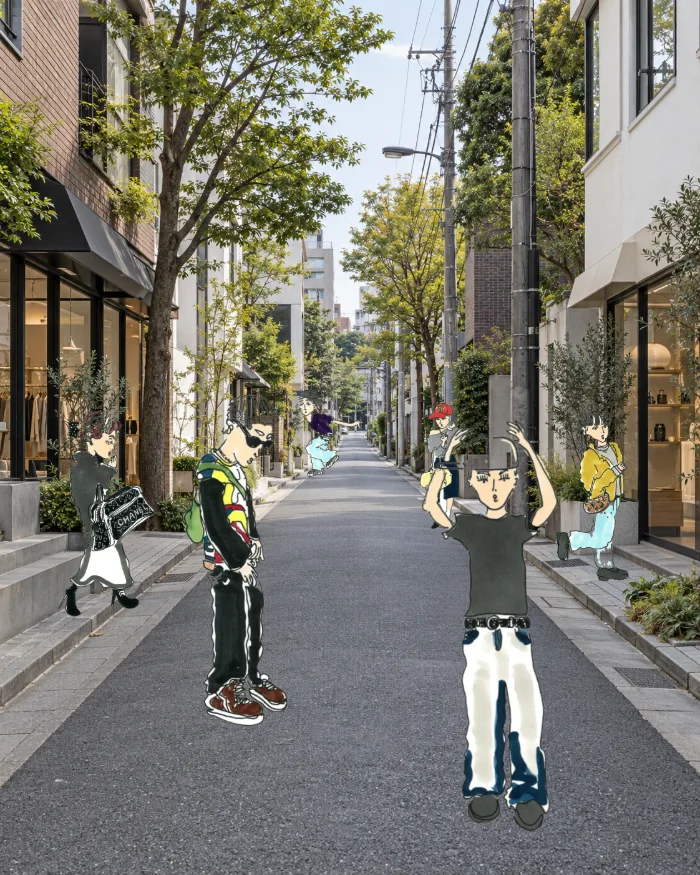
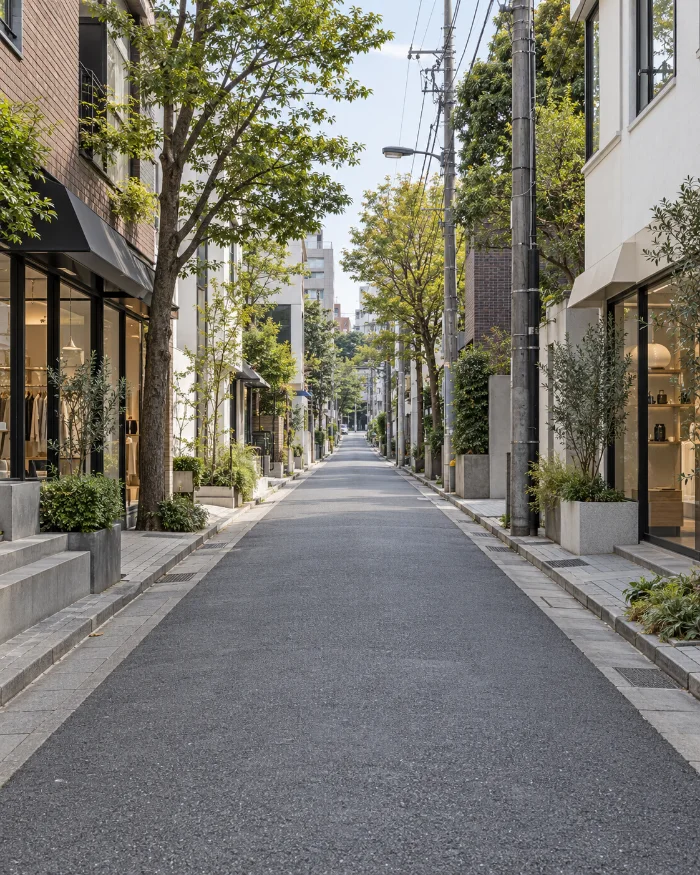
街の人を画面に置き直し、結婚式の絵はWORKSへ、スタンプの枠を作り直す
- 街の人：写真に焼き込むと切り取られて見えなくなる（スマホは左右、PCは上下が切れる）。
  画面に対して置き直し、下にいるほど大きく＝遠近を付けた。6人とも全身が入り、
  真ん中の文にも掛からないことを 390×844／360×640／1440×900 で確認
  上下を紙に溶かす覆いの外に出したので、足元も切れない
- 結婚式の素材8点は皿から外し、WORKS に「ほかの作品」として一覧に。
  はじめは4点、「もっと見る」で8点に開く
- LINEスタンプの枠を作り直し。題・説明・SET/SHOP・ボタンの組と、
  スタンプ9枚を並べた台紙（破線の見出し、1枚ずつ傾ける）の2段構え

diff --git a/index.html b/index.html
@@ -112,6 +112,11 @@ html.ready .nav{opacity:1}
 .street i{position:fixed;inset:0;background-position:center;background-size:cover;
   background-repeat:no-repeat;opacity:0;transition:opacity .9s ease}
 .street i.on{opacity:var(--street-op)}
+/* 街に立つ人。写真に焼き込むと切り取られて見えなくなるので、画面に対して置く。
+   下にいるほど大きく、上にいるほど小さい＝遠近。真ん中の文には重ねない */
+.persons{position:absolute;inset:0;z-index:1;pointer-events:none}
+.pers{position:fixed;width:auto;pointer-events:none;
+  filter:drop-shadow(0 .6vh .7vh rgba(20,17,15,.2))}
 @media (prefers-reduced-motion:reduce){.street i{transition:none}}
 /* 切替UI（確認用。本番では削除） */
 /* ===== ② 人が出てくる区間 ===== */
@@ -344,6 +349,7 @@ html.ready .nav{opacity:1}
 
 <section class="garden" id="garden" aria-hidden="true">
   <div class="street"><i data-street="street-02-plain"></i></div>
+  <div class="persons" aria-hidden="true"><img class="pers" style="left:3%;bottom:44%;height:7vh" src="naoto-works/figures-city/city-03@280w.webp" srcset="naoto-works/figures-city/city-03@280w.webp 280w, naoto-works/figures-city/city-03@560w.webp 560w" sizes="30vh" alt="" loading="lazy" decoding="async"><img class="pers" style="left:85%;bottom:42%;height:8.5vh" src="naoto-works/figures-city/city-02@280w.webp" srcset="naoto-works/figures-city/city-02@280w.webp 280w, naoto-works/figures-city/city-02@560w.webp 560w" sizes="30vh" alt="" loading="lazy" decoding="async"><img class="pers" style="left:70%;bottom:29%;height:13vh" src="naoto-works/figures-city/city-06@280w.webp" srcset="naoto-works/figures-city/city-06@280w.webp 280w, naoto-works/figures-city/city-06@560w.webp 560w" sizes="30vh" alt="" loading="lazy" decoding="async"><img class="pers" style="left:13%;bottom:26%;height:15vh" src="naoto-works/figures-city/city-05@280w.webp" srcset="naoto-works/figures-city/city-05@280w.webp 280w, naoto-works/figures-city/city-05@560w.webp 560w" sizes="30vh" alt="" loading="lazy" decoding="async"><img class="pers" style="left:31%;bottom:12%;height:24vh" src="naoto-works/figures-city/city-01@280w.webp" srcset="naoto-works/figures-city/city-01@280w.webp 280w, naoto-works/figures-city/city-01@560w.webp 560w" sizes="30vh" alt="" loading="lazy" decoding="async"><img class="pers" style="left:59%;bottom:9%;height:28vh" src="naoto-works/figures-city/city-04@280w.webp" srcset="naoto-works/figures-city/city-04@280w.webp 280w, naoto-works/figures-city/city-04@560w.webp 560w" sizes="30vh" alt="" loading="lazy" decoding="async"></div>
     <p class="say say--en">PEOPLE / FASHION / CITY</p>
 
   
@@ -385,7 +391,7 @@ html.ready .nav{opacity:1}
 <section class="gate">
   <h2>人物、服、街の空気。</h2>
   <p class="en">PEOPLE / FASHION / CITY</p>
-  <div class="lane-wrap"><div class="lane" id="lane"><figure class="dish"><span class="art art--img"><img src="naoto-works/works/trio-blue-cut@400w.webp" srcset="naoto-works/works/trio-blue-cut@400w.webp 400w, naoto-works/works/trio-blue-cut@600w.webp 600w" sizes="(max-width:760px) 34vw, 14vw" alt="3人組・青ジャケットのスケッチ" loading="lazy" decoding="async"></span><i class="plate"></i></figure><figure class="dish"><span class="art art--img"><img src="naoto-works/works/happy-wedding-cut@400w.webp" srcset="naoto-works/works/happy-wedding-cut@400w.webp 400w, naoto-works/works/happy-wedding-cut@600w.webp 600w" sizes="(max-width:760px) 34vw, 14vw" alt="HAPPY WEDDING のスケッチ" loading="lazy" decoding="async"></span><i class="plate"></i></figure><figure class="dish"><span class="art art--img"><img src="naoto-works/works/grid-people-a-cut@400w.webp" srcset="naoto-works/works/grid-people-a-cut@400w.webp 400w, naoto-works/works/grid-people-a-cut@600w.webp 600w" sizes="(max-width:760px) 42vw, 19vw" alt="人物を並べたスケッチ" loading="lazy" decoding="async"></span><i class="plate"></i></figure><figure class="dish"><span class="art art--img art--rect"><img src="naoto-works/works/green-down-wall@400w.webp" srcset="naoto-works/works/green-down-wall@400w.webp 400w, naoto-works/works/green-down-wall@600w.webp 600w" sizes="(max-width:760px) 34vw, 14vw" alt="緑のダウンとレンガの壁のスケッチ" loading="lazy" decoding="async"></span><i class="plate"></i></figure><figure class="dish"><span class="art art--img"><img src="naoto-works/works/trio-yellow-cut@400w.webp" srcset="naoto-works/works/trio-yellow-cut@400w.webp 400w, naoto-works/works/trio-yellow-cut@600w.webp 600w" sizes="(max-width:760px) 34vw, 14vw" alt="3人歩き・黄のスケッチ" loading="lazy" decoding="async"></span><i class="plate"></i></figure><figure class="dish"><span class="art art--img"><img src="naoto-works/works/grid-people-b-cut@400w.webp" srcset="naoto-works/works/grid-people-b-cut@400w.webp 400w, naoto-works/works/grid-people-b-cut@600w.webp 600w" sizes="(max-width:760px) 42vw, 19vw" alt="人物を並べたスケッチ その2" loading="lazy" decoding="async"></span><i class="plate"></i></figure><figure class="dish"><span class="art art--img art--rect"><img src="naoto-works/works/plate-8614@400w.webp" srcset="naoto-works/works/plate-8614@400w.webp 400w, naoto-works/works/plate-8614@600w.webp 600w" sizes="(max-width:760px) 34vw, 14vw" alt="新郎新婦のスケッチ" loading="lazy" decoding="async"></span><i class="plate"></i></figure><figure class="dish"><span class="art art--img art--rect"><img src="naoto-works/works/plate-9468@400w.webp" srcset="naoto-works/works/plate-9468@400w.webp 400w, naoto-works/works/plate-9468@600w.webp 600w" sizes="(max-width:760px) 34vw, 14vw" alt="4人のスケッチ" loading="lazy" decoding="async"></span><i class="plate"></i></figure><figure class="dish"><span class="art art--img art--rect"><img src="naoto-works/works/plate-8620@400w.webp" srcset="naoto-works/works/plate-8620@400w.webp 400w, naoto-works/works/plate-8620@600w.webp 600w" sizes="(max-width:760px) 34vw, 14vw" alt="向かい合う二人のスケッチ" loading="lazy" decoding="async"></span><i class="plate"></i></figure><figure class="dish"><span class="art art--img art--rect"><img src="naoto-works/works/plate-8074@400w.webp" srcset="naoto-works/works/plate-8074@400w.webp 400w, naoto-works/works/plate-8074@600w.webp 600w" sizes="(max-width:760px) 34vw, 14vw" alt="スマホを見る二人のスケッチ" loading="lazy" decoding="async"></span><i class="plate"></i></figure><figure class="dish"><span class="art art--img art--rect"><img src="naoto-works/works/plate-8121@400w.webp" srcset="naoto-works/works/plate-8121@400w.webp 400w, naoto-works/works/plate-8121@600w.webp 600w" sizes="(max-width:760px) 34vw, 14vw" alt="街のスケッチ" loading="lazy" decoding="async"></span><i class="plate"></i></figure><figure class="dish"><span class="art art--img art--rect"><img src="naoto-works/works/plate-8617@400w.webp" srcset="naoto-works/works/plate-8617@400w.webp 400w, naoto-works/works/plate-8617@600w.webp 600w" sizes="(max-width:760px) 34vw, 14vw" alt="街のスケッチ" loading="lazy" decoding="async"></span><i class="plate"></i></figure><figure class="dish"><span class="art art--img art--rect"><img src="naoto-works/works/plate-8627@400w.webp" srcset="naoto-works/works/plate-8627@400w.webp 400w, naoto-works/works/plate-8627@600w.webp 600w" sizes="(max-width:760px) 34vw, 14vw" alt="街のスケッチ" loading="lazy" decoding="async"></span><i class="plate"></i></figure><figure class="dish"><span class="art art--img art--rect"><img src="naoto-works/works/plate-8076@400w.webp" srcset="naoto-works/works/plate-8076@400w.webp 400w, naoto-works/works/plate-8076@600w.webp 600w" sizes="(max-width:760px) 34vw, 14vw" alt="手をつなぐ親子のスケッチ" loading="lazy" decoding="async"></span><i class="plate"></i></figure><figure class="dish" aria-hidden="true"><span class="art art--img"><img src="naoto-works/works/trio-blue-cut@400w.webp" srcset="naoto-works/works/trio-blue-cut@400w.webp 400w, naoto-works/works/trio-blue-cut@600w.webp 600w" sizes="(max-width:760px) 34vw, 14vw" alt="" loading="lazy" decoding="async"></span><i class="plate"></i></figure><figure class="dish" aria-hidden="true"><span class="art art--img"><img src="naoto-works/works/happy-wedding-cut@400w.webp" srcset="naoto-works/works/happy-wedding-cut@400w.webp 400w, naoto-works/works/happy-wedding-cut@600w.webp 600w" sizes="(max-width:760px) 34vw, 14vw" alt="" loading="lazy" decoding="async"></span><i class="plate"></i></figure><figure class="dish"><span class="art art--img"><img src="naoto-works/works/grid-people-a-cut@400w.webp" srcset="naoto-works/works/grid-people-a-cut@400w.webp 400w, naoto-works/works/grid-people-a-cut@600w.webp 600w" sizes="(max-width:760px) 42vw, 19vw" alt="人物を並べたスケッチ" loading="lazy" decoding="async"></span><i class="plate"></i></figure><figure class="dish" aria-hidden="true"><span class="art art--img art--rect"><img src="naoto-works/works/green-down-wall@400w.webp" srcset="naoto-works/works/green-down-wall@400w.webp 400w, naoto-works/works/green-down-wall@600w.webp 600w" sizes="(max-width:760px) 34vw, 14vw" alt="" loading="lazy" decoding="async"></span><i class="plate"></i></figure><figure class="dish" aria-hidden="true"><span class="art art--img"><img src="naoto-works/works/trio-yellow-cut@400w.webp" srcset="naoto-works/works/trio-yellow-cut@400w.webp 400w, naoto-works/works/trio-yellow-cut@600w.webp 600w" sizes="(max-width:760px) 34vw, 14vw" alt="" loading="lazy" decoding="async"></span><i class="plate"></i></figure><figure class="dish"><span class="art art--img"><img src="naoto-works/works/grid-people-b-cut@400w.webp" srcset="naoto-works/works/grid-people-b-cut@400w.webp 400w, naoto-works/works/grid-people-b-cut@600w.webp 600w" sizes="(max-width:760px) 42vw, 19vw" alt="人物を並べたスケッチ その2" loading="lazy" decoding="async"></span><i class="plate"></i></figure><figure class="dish" aria-hidden="true"><span class="art art--img art--rect"><img src="naoto-works/works/plate-8614@400w.webp" srcset="naoto-works/works/plate-8614@400w.webp 400w, naoto-works/works/plate-8614@600w.webp 600w" sizes="(max-width:760px) 34vw, 14vw" alt="" loading="lazy" decoding="async"></span><i class="plate"></i></figure><figure class="dish" aria-hidden="true"><span class="art art--img art--rect"><img src="naoto-works/works/plate-9468@400w.webp" srcset="naoto-works/works/plate-9468@400w.webp 400w, naoto-works/works/plate-9468@600w.webp 600w" sizes="(max-width:760px) 34vw, 14vw" alt="" loading="lazy" decoding="async"></span><i class="plate"></i></figure><figure class="dish" aria-hidden="true"><span class="art art--img art--rect"><img src="naoto-works/works/plate-8620@400w.webp" srcset="naoto-works/works/plate-8620@400w.webp 400w, naoto-works/works/plate-8620@600w.webp 600w" sizes="(max-width:760px) 34vw, 14vw" alt="" loading="lazy" decoding="async"></span><i class="plate"></i></figure><figure class="dish" aria-hidden="true"><span class="art art--img art--rect"><img src="naoto-works/works/plate-8074@400w.webp" srcset="naoto-works/works/plate-8074@400w.webp 400w, naoto-works/works/plate-8074@600w.webp 600w" sizes="(max-width:760px) 34vw, 14vw" alt="" loading="lazy" decoding="async"></span><i class="plate"></i></figure><figure class="dish" aria-hidden="true"><span class="art art--img art--rect"><img src="naoto-works/works/plate-8121@400w.webp" srcset="naoto-works/works/plate-8121@400w.webp 400w, naoto-works/works/plate-8121@600w.webp 600w" sizes="(max-width:760px) 34vw, 14vw" alt="" loading="lazy" decoding="async"></span><i class="plate"></i></figure><figure class="dish" aria-hidden="true"><span class="art art--img art--rect"><img src="naoto-works/works/plate-8617@400w.webp" srcset="naoto-works/works/plate-8617@400w.webp 400w, naoto-works/works/plate-8617@600w.webp 600w" sizes="(max-width:760px) 34vw, 14vw" alt="" loading="lazy" decoding="async"></span><i class="plate"></i></figure><figure class="dish" aria-hidden="true"><span class="art art--img art--rect"><img src="naoto-works/works/plate-8627@400w.webp" srcset="naoto-works/works/plate-8627@400w.webp 400w, naoto-works/works/plate-8627@600w.webp 600w" sizes="(max-width:760px) 34vw, 14vw" alt="" loading="lazy" decoding="async"></span><i class="plate"></i></figure><figure class="dish" aria-hidden="true"><span class="art art--img art--rect"><img src="naoto-works/works/plate-8076@400w.webp" srcset="naoto-works/works/plate-8076@400w.webp 400w, naoto-works/works/plate-8076@600w.webp 600w" sizes="(max-width:760px) 34vw, 14vw" alt="" loading="lazy" decoding="async"></span><i class="plate"></i></figure></div></div>
+  <div class="lane-wrap"><div class="lane" id="lane"><figure class="dish"><span class="art art--img"><img src="naoto-works/works/trio-blue-cut@400w.webp" srcset="naoto-works/works/trio-blue-cut@400w.webp 400w, naoto-works/works/trio-blue-cut@600w.webp 600w" sizes="(max-width:760px) 34vw, 14vw" alt="3人組・青ジャケットのスケッチ" loading="lazy" decoding="async"></span><i class="plate"></i></figure><figure class="dish"><span class="art art--img"><img src="naoto-works/works/happy-wedding-cut@400w.webp" srcset="naoto-works/works/happy-wedding-cut@400w.webp 400w, naoto-works/works/happy-wedding-cut@600w.webp 600w" sizes="(max-width:760px) 34vw, 14vw" alt="HAPPY WEDDING のスケッチ" loading="lazy" decoding="async"></span><i class="plate"></i></figure><figure class="dish"><span class="art art--img"><img src="naoto-works/works/grid-people-a-cut@400w.webp" srcset="naoto-works/works/grid-people-a-cut@400w.webp 400w, naoto-works/works/grid-people-a-cut@600w.webp 600w" sizes="(max-width:760px) 42vw, 19vw" alt="人物を並べたスケッチ" loading="lazy" decoding="async"></span><i class="plate"></i></figure><figure class="dish"><span class="art art--img art--rect"><img src="naoto-works/works/green-down-wall@400w.webp" srcset="naoto-works/works/green-down-wall@400w.webp 400w, naoto-works/works/green-down-wall@600w.webp 600w" sizes="(max-width:760px) 34vw, 14vw" alt="緑のダウンとレンガの壁のスケッチ" loading="lazy" decoding="async"></span><i class="plate"></i></figure><figure class="dish"><span class="art art--img"><img src="naoto-works/works/trio-yellow-cut@400w.webp" srcset="naoto-works/works/trio-yellow-cut@400w.webp 400w, naoto-works/works/trio-yellow-cut@600w.webp 600w" sizes="(max-width:760px) 34vw, 14vw" alt="3人歩き・黄のスケッチ" loading="lazy" decoding="async"></span><i class="plate"></i></figure><figure class="dish"><span class="art art--img"><img src="naoto-works/works/grid-people-b-cut@400w.webp" srcset="naoto-works/works/grid-people-b-cut@400w.webp 400w, naoto-works/works/grid-people-b-cut@600w.webp 600w" sizes="(max-width:760px) 42vw, 19vw" alt="人物を並べたスケッチ その2" loading="lazy" decoding="async"></span><i class="plate"></i></figure><figure class="dish" aria-hidden="true"><span class="art art--img"><img src="naoto-works/works/trio-blue-cut@400w.webp" srcset="naoto-works/works/trio-blue-cut@400w.webp 400w, naoto-works/works/trio-blue-cut@600w.webp 600w" sizes="(max-width:760px) 34vw, 14vw" alt="" loading="lazy" decoding="async"></span><i class="plate"></i></figure><figure class="dish" aria-hidden="true"><span class="art art--img"><img src="naoto-works/works/happy-wedding-cut@400w.webp" srcset="naoto-works/works/happy-wedding-cut@400w.webp 400w, naoto-works/works/happy-wedding-cut@600w.webp 600w" sizes="(max-width:760px) 34vw, 14vw" alt="" loading="lazy" decoding="async"></span><i class="plate"></i></figure><figure class="dish"><span class="art art--img"><img src="naoto-works/works/grid-people-a-cut@400w.webp" srcset="naoto-works/works/grid-people-a-cut@400w.webp 400w, naoto-works/works/grid-people-a-cut@600w.webp 600w" sizes="(max-width:760px) 42vw, 19vw" alt="人物を並べたスケッチ" loading="lazy" decoding="async"></span><i class="plate"></i></figure><figure class="dish" aria-hidden="true"><span class="art art--img art--rect"><img src="naoto-works/works/green-down-wall@400w.webp" srcset="naoto-works/works/green-down-wall@400w.webp 400w, naoto-works/works/green-down-wall@600w.webp 600w" sizes="(max-width:760px) 34vw, 14vw" alt="" loading="lazy" decoding="async"></span><i class="plate"></i></figure><figure class="dish" aria-hidden="true"><span class="art art--img"><img src="naoto-works/works/trio-yellow-cut@400w.webp" srcset="naoto-works/works/trio-yellow-cut@400w.webp 400w, naoto-works/works/trio-yellow-cut@600w.webp 600w" sizes="(max-width:760px) 34vw, 14vw" alt="" loading="lazy" decoding="async"></span><i class="plate"></i></figure><figure class="dish"><span class="art art--img"><img src="naoto-works/works/grid-people-b-cut@400w.webp" srcset="naoto-works/works/grid-people-b-cut@400w.webp 400w, naoto-works/works/grid-people-b-cut@600w.webp 600w" sizes="(max-width:760px) 42vw, 19vw" alt="人物を並べたスケッチ その2" loading="lazy" decoding="async"></span><i class="plate"></i></figure></div></div>
   <div class="rail"></div>
   <div class="ticker" aria-label="OSUSHI JAPAN ART / 兵庫県加古郡・オンライン対応 / 雑誌・広告・アパレル・イベント">
     <div class="ticker__in" id="ticker"><span class="ticker__seg"><b>OSUSHI JAPAN ART</b><i aria-hidden="true"></i><span>PEOPLE / FASHION / CITY</span><i aria-hidden="true"></i><em>兵庫県加古郡・オンライン対応</em><i aria-hidden="true"></i><span>EDITORIAL / AD / APPAREL / EVENT</span><i aria-hidden="true"></i><em>雑誌・広告・アパレル・イベント</em><i aria-hidden="true"></i></span><span class="ticker__seg"><b>OSUSHI JAPAN ART</b><i aria-hidden="true"></i><span>PEOPLE / FASHION / CITY</span><i aria-hidden="true"></i><em>兵庫県加古郡・オンライン対応</em><i aria-hidden="true"></i><span>EDITORIAL / AD / APPAREL / EVENT</span><i aria-hidden="true"></i><em>雑誌・広告・アパレル・イベント</em><i aria-hidden="true"></i></span><span class="ticker__seg"><b>OSUSHI JAPAN ART</b><i aria-hidden="true"></i><span>PEOPLE / FASHION / CITY</span><i aria-hidden="true"></i><em>兵庫県加古郡・オンライン対応</em><i aria-hidden="true"></i><span>EDITORIAL / AD / APPAREL / EVENT</span><i aria-hidden="true"></i><em>雑誌・広告・アパレル・イベント</em><i aria-hidden="true"></i></span><span class="ticker__seg"><b>OSUSHI JAPAN ART</b><i aria-hidden="true"></i><span>PEOPLE / FASHION / CITY</span><i aria-hidden="true"></i><em>兵庫県加古郡・オンライン対応</em><i aria-hidden="true"></i><span>EDITORIAL / AD / APPAREL / EVENT</span><i aria-hidden="true"></i><em>雑誌・広告・アパレル・イベント</em><i aria-hidden="true"></i></span></div>
@@ -404,7 +410,7 @@ addEventListener('load',function(){ clearTimeout(t); setTimeout(go,3500); });
 (function(){
   var g=document.getElementById('garden');
   if(!g) return;
-  var st=g.querySelector('.street');
+  var st=g.querySelector('.street'), pp=g.querySelector('.persons');
   var layers=[].slice.call(g.querySelectorAll('.street i'));
   var small=matchMedia('(max-width:760px)').matches;
   function src(n){ return 'naoto-assets/street/'+n+(small?'@700w':'')+'.webp'; }
@@ -430,7 +436,9 @@ addEventListener('load',function(){ clearTimeout(t); setTimeout(go,3500); });
     if(total<=0){ says.forEach(function(el){ el.classList.add('on'); }); return; }
     /* 街の層は位置指定が fixed なので、区間の外でも描かれ続けることがある。
        区間が画面から外れたら消す */
-    st.style.visibility = (r.bottom>0 && r.top<innerHeight) ? '' : 'hidden';
+    var vis = (r.bottom>0 && r.top<innerHeight) ? '' : 'hidden';
+    st.style.visibility = vis;
+    if(pp) pp.style.visibility = vis;
     var p=Math.min(Math.max(-r.top/total,0),1);
     var i=0; for(var k=0;k<marks.length;k++){ if(p>=marks[k]) i=k; }
     if(i!==cur){

diff --git a/works/index.html b/works/index.html
@@ -114,27 +114,71 @@ body::after{content:"";position:fixed;inset:0;pointer-events:none;z-index:95;
 .belt__count b{font-family:Anton,sans-serif;font-size:clamp(2.4rem,7vw,5rem);line-height:1;
   color:transparent;-webkit-text-stroke:1.6px var(--ink)}
 .belt__count span{font-family:Anton,sans-serif;font-size:.66rem;letter-spacing:.26em;color:var(--vermil)}
-/* ===== LINEスタンプ ===== */
-.sticker{position:relative;z-index:2;background:#FAF8F5 var(--im-paper) repeat;background-size:320px;
+/* ===== ほかの作品（もっと見る） ===== */
+.more{position:relative;z-index:2;background:var(--paper) var(--im-paper) repeat;background-size:320px;
   border-top:4px solid var(--ink);padding:clamp(3rem,9vh,5rem) 0 clamp(3.4rem,10vh,6rem)}
-.sticker__in{max-width:1180px;margin-inline:auto;padding:0 clamp(1.4rem,5vw,4rem)}
-.sticker__h{display:flex;align-items:baseline;gap:1.1rem;margin:0 0 1.2rem}
+.more__in{max-width:1180px;margin-inline:auto;padding:0 clamp(1.4rem,5vw,4rem)}
+.more__h{display:flex;align-items:baseline;gap:1.1rem;margin:0 0 1rem}
+.more__h b{font-family:Anton,sans-serif;font-size:.72rem;letter-spacing:.3em}
+.more__h span{font-size:.76rem;opacity:.5}
+.more__h::after{content:"";flex:1;height:2px;background:var(--ink-12)}
+.more__lead{margin:0 0 clamp(1.4rem,4vh,2.2rem);font-size:clamp(.8rem,1.35vw,.92rem);
+  line-height:2.05;opacity:.72}
+.more__grid{list-style:none;margin:0;padding:0;display:grid;gap:clamp(.8rem,2.4vw,1.6rem);
+  grid-template-columns:repeat(2,minmax(0,1fr))}
+@media(min-width:761px){ .more__grid{grid-template-columns:repeat(4,minmax(0,1fr))} }
+.more__it{background:#fff;border:1.5px solid var(--ink-12);padding:clamp(.5rem,1.4vw,.9rem);
+  box-shadow:0 .5rem 1.4rem rgba(20,17,15,.07)}
+.more__it img{display:block;width:100%;height:auto}
+/* 開くまでは隠しておく */
+.more__it.is-rest{display:none}
+.more.is-open .more__it.is-rest{display:block}
+.more__btn{display:inline-flex;align-items:center;gap:.6rem;margin-top:clamp(1.4rem,4vh,2.2rem);
+  padding:.7rem 1.3rem;border:1.5px solid var(--ink);background:none;border-radius:999px;
+  font-family:inherit;cursor:pointer;color:var(--ink);
+  transition:background .2s ease,color .2s ease}
+.more__btn b{font-weight:900;font-size:.8rem;letter-spacing:.06em}
+.more__btn i{width:.42em;height:.42em;border-bottom:2px solid currentColor;border-right:2px solid currentColor;
+  rotate:45deg;translate:0 -.1em;transition:rotate .2s ease}
+.more.is-open .more__btn i{rotate:-135deg;translate:0 .1em}
+.more__btn:hover,.more__btn:focus-visible{background:var(--ink);color:var(--paper)}
+
+/* ===== LINEスタンプ ===== */
+.sticker{position:relative;z-index:2;border-top:4px solid var(--ink);
+  background:#EFECE6 var(--im-paper) repeat;background-size:320px;
+  padding:clamp(3rem,9vh,5rem) 0 clamp(3.4rem,10vh,6rem)}
+.sticker__in{max-width:1180px;margin-inline:auto;padding:0 clamp(1.4rem,5vw,4rem);
+  display:grid;gap:clamp(1.8rem,5vh,3rem);align-items:center}
+@media(min-width:861px){ .sticker__in{grid-template-columns:.92fr 1.08fr;gap:clamp(2rem,4vw,4rem)} }
+.sticker__h{display:flex;align-items:baseline;gap:1.1rem;margin:0 0 1rem}
 .sticker__h b{font-family:Anton,sans-serif;font-size:.72rem;letter-spacing:.3em}
 .sticker__h span{font-size:.76rem;opacity:.5}
 .sticker__h::after{content:"";flex:1;height:2px;background:var(--ink-12)}
-.sticker__t{margin:0;font-size:clamp(1.3rem,3.4vw,2.1rem);line-height:1.5;letter-spacing:.01em}
-.sticker__lead{margin:.7rem 0 0;max-width:620px;
-  font-size:clamp(.8rem,1.35vw,.92rem);line-height:2.05;opacity:.72}
-/* スタンプは並べて見せる。紙の上に置いた見立てで、1枚ずつ少し傾ける */
-.sticker__row{list-style:none;display:flex;flex-wrap:wrap;gap:clamp(.6rem,2vw,1.4rem);
-  margin:clamp(1.4rem,4vh,2.4rem) 0 0;padding:0}
-.sticker__row li{flex:0 0 auto;width:clamp(88px,15vw,148px);background:#fff;
-  border:1.5px solid var(--ink-12);padding:.5rem;
-  box-shadow:0 .5rem 1.2rem rgba(20,17,15,.08)}
-.sticker__row li:nth-child(2n){rotate:1.4deg}
-.sticker__row li:nth-child(3n){rotate:-1.8deg}
-.sticker__row img{display:block;width:100%;height:auto}
-.sticker__btn{display:inline-flex;align-items:center;gap:.7rem;margin-top:clamp(1.4rem,4vh,2.2rem);
+.sticker__t{margin:0;font-size:clamp(1.5rem,4.2vw,2.5rem);line-height:1.45;letter-spacing:.01em}
+.sticker__lead{margin:.9rem 0 0;max-width:30em;font-size:clamp(.8rem,1.35vw,.92rem);
+  line-height:2.05;opacity:.72}
+.sticker__meta{display:grid;grid-template-columns:auto 1fr;gap:.4rem 1.4rem;
+  margin:clamp(1.1rem,3vh,1.8rem) 0 0;padding-top:clamp(.9rem,2.4vh,1.4rem);
+  border-top:1.5px solid var(--ink-12)}
+.sticker__meta dt{font-family:Anton,sans-serif;font-size:.6rem;letter-spacing:.24em;
+  color:var(--vermil);align-self:center}
+.sticker__meta dd{margin:0;font-size:.82rem;letter-spacing:.02em}
+/* スタンプを並べた台紙。シートから1枚ずつ剥がす見立て */
+.sticker__sheet{background:#fff;border:1.5px solid var(--ink-12);rotate:-.8deg;
+  padding:clamp(.9rem,2.6vw,1.5rem);
+  box-shadow:0 1rem 2.4rem rgba(20,17,15,.12),0 .2rem .5rem rgba(20,17,15,.06)}
+.sticker__sheeth{display:flex;align-items:baseline;gap:.6rem;margin:0 0 clamp(.7rem,2vw,1rem);
+  padding-bottom:.6rem;border-bottom:1.5px dashed var(--ink-12);
+  font-family:Anton,sans-serif;font-size:.58rem;letter-spacing:.26em;color:var(--ink-40)}
+.sticker__sheeth span{margin-left:auto;color:var(--vermil)}
+.sticker__grid{list-style:none;margin:0;padding:0;display:grid;
+  grid-template-columns:repeat(3,minmax(0,1fr));gap:clamp(.3rem,1.4vw,.8rem)}
+.sticker__grid li{display:grid;place-items:center;padding:clamp(.25rem,1vw,.5rem);
+  border-radius:4px;background:#FAF8F5}
+.sticker__grid li:nth-child(2n){rotate:1.2deg}
+.sticker__grid li:nth-child(3n){rotate:-1.4deg}
+.sticker__grid img{display:block;width:100%;height:auto}
+.sticker__btn{display:inline-flex;align-items:center;gap:.7rem;margin-top:clamp(1.3rem,3.4vh,2rem);
   padding:.78rem 1.2rem;border-radius:999px;text-decoration:none;
   background:var(--vermil);color:#FFF7F3;
   box-shadow:0 .6rem 1.6rem rgba(211,56,28,.24);
@@ -433,6 +477,24 @@ body::after{content:"";position:fixed;inset:0;pointer-events:none;z-index:95;
     </article>
 </div>
 
+<section class="more" id="more" aria-labelledby="more-h">
+  <div class="more__in">
+    <p class="more__h" id="more-h"><b>MORE WORKS</b><span>ほかの作品</span></p>
+    <p class="more__lead">依頼で描いたもの、その日のスケッチから。</p>
+    <ul class="more__grid">
+        <li class="more__it"><img src="../naoto-works/works/plate-8614@400w.webp" srcset="../naoto-works/works/plate-8614@400w.webp 400w, ../naoto-works/works/plate-8614@600w.webp 600w" sizes="(max-width:760px) 44vw, 22vw" alt="新郎新婦のイラスト" loading="lazy" decoding="async"></li>
+        <li class="more__it"><img src="../naoto-works/works/plate-9468@400w.webp" srcset="../naoto-works/works/plate-9468@400w.webp 400w, ../naoto-works/works/plate-9468@600w.webp 600w" sizes="(max-width:760px) 44vw, 22vw" alt="4人のイラスト" loading="lazy" decoding="async"></li>
+        <li class="more__it"><img src="../naoto-works/works/plate-8620@400w.webp" srcset="../naoto-works/works/plate-8620@400w.webp 400w, ../naoto-works/works/plate-8620@600w.webp 600w" sizes="(max-width:760px) 44vw, 22vw" alt="向かい合う二人のイラスト" loading="lazy" decoding="async"></li>
+        <li class="more__it"><img src="../naoto-works/works/plate-8074@400w.webp" srcset="../naoto-works/works/plate-8074@400w.webp 400w, ../naoto-works/works/plate-8074@600w.webp 600w" sizes="(max-width:760px) 44vw, 22vw" alt="スマホを見る二人のイラスト" loading="lazy" decoding="async"></li>
+        <li class="more__it is-rest"><img src="../naoto-works/works/plate-8627@400w.webp" srcset="../naoto-works/works/plate-8627@400w.webp 400w, ../naoto-works/works/plate-8627@600w.webp 600w" sizes="(max-width:760px) 44vw, 22vw" alt="肩車のイラスト" loading="lazy" decoding="async"></li>
+        <li class="more__it is-rest"><img src="../naoto-works/works/plate-8121@400w.webp" srcset="../naoto-works/works/plate-8121@400w.webp 400w, ../naoto-works/works/plate-8121@600w.webp 600w" sizes="(max-width:760px) 44vw, 22vw" alt="キャップの女性のイラスト" loading="lazy" decoding="async"></li>
+        <li class="more__it is-rest"><img src="../naoto-works/works/plate-8617@400w.webp" srcset="../naoto-works/works/plate-8617@400w.webp 400w, ../naoto-works/works/plate-8617@600w.webp 600w" sizes="(max-width:760px) 44vw, 22vw" alt="二人のイラスト" loading="lazy" decoding="async"></li>
+        <li class="more__it is-rest"><img src="../naoto-works/works/plate-8076@400w.webp" srcset="../naoto-works/works/plate-8076@400w.webp 400w, ../naoto-works/works/plate-8076@600w.webp 600w" sizes="(max-width:760px) 44vw, 22vw" alt="手をつなぐ親子のイラスト" loading="lazy" decoding="async"></li>
+    </ul>
+    <button class="more__btn" type="button" aria-expanded="false"><b>もっと見る</b><i aria-hidden="true"></i></button>
+  </div>
+</section>
+
 <section class="belt">
   <p class="belt__h"><b>SKETCH ARCHIVE</b><span>スケッチ一覧</span></p>
   <p class="belt__lead">日々のスケッチから。ひとりずつ、街で見かけた人を描きためています。</p>
@@ -442,20 +504,34 @@ body::after{content:"";position:fixed;inset:0;pointer-events:none;z-index:95;
   <p class="belt__note">掲載しているのは一部です。用途に応じて個別にお見せできます。</p>
 </section>
 
-<section class="sticker">
+<section class="sticker" aria-labelledby="stk-h">
   <div class="sticker__in">
-    <p class="sticker__h"><b>LINE STICKER</b><span>LINEスタンプ</span></p>
-    <h2 class="sticker__t">おすしのファッションスタンプ</h2>
-    <p class="sticker__lead">ゆるくて、ちょっとおしゃれ。日常の会話で使いやすい15種類です。</p>
-    <ul class="sticker__row">
-      <li><img src="../naoto-works/sticker/osushi-906932921.webp" alt="スタンプ「向かいます」" loading="lazy" decoding="async"></li>
-      <li><img src="../naoto-works/sticker/osushi-906932930.webp" alt="スタンプ「さいこう」" loading="lazy" decoding="async"></li>
-      <li><img src="../naoto-works/sticker/osushi-906932924.webp" alt="" loading="lazy" decoding="async"></li>
-      <li><img src="../naoto-works/sticker/osushi-906932933.webp" alt="スタンプ「ありがとう」" loading="lazy" decoding="async"></li>
-    </ul>
-    <a class="sticker__btn" href="https://line.me/S/sticker/36952174/?lang=ja&amp;utm_source=gnsh_stickerDetail" target="_blank" rel="noopener">
-      <b>LINE STORE で見る</b><i aria-hidden="true"></i>
-    </a>
+    <div class="sticker__txt">
+      <p class="sticker__h"><b>LINE STICKER</b><span>LINEスタンプ</span></p>
+      <h2 class="sticker__t" id="stk-h">おすしの<br>ファッションスタンプ</h2>
+      <p class="sticker__lead">ゆるくて、ちょっとおしゃれ。日常の会話で使いやすい15種類です。</p>
+      <dl class="sticker__meta">
+        <dt>SET</dt><dd>全15種類</dd>
+        <dt>SHOP</dt><dd>LINE STORE</dd>
+      </dl>
+      <a class="sticker__btn" href="https://line.me/S/sticker/36952174/?lang=ja&amp;utm_source=gnsh_stickerDetail" target="_blank" rel="noopener">
+        <b>LINE STORE で見る</b><i aria-hidden="true"></i>
+      </a>
+    </div>
+    <div class="sticker__sheet" aria-hidden="true">
+      <p class="sticker__sheeth">OSUSHI JAPAN ART <span>STICKERS</span></p>
+      <ul class="sticker__grid">
+          <li><img src="../naoto-works/sticker/osushi-906932921.webp" alt="" loading="lazy" decoding="async"></li>
+          <li><img src="../naoto-works/sticker/osushi-906932930.webp" alt="" loading="lazy" decoding="async"></li>
+          <li><img src="../naoto-works/sticker/osushi-906932933.webp" alt="" loading="lazy" decoding="async"></li>
+          <li><img src="../naoto-works/sticker/osushi-906932924.webp" alt="" loading="lazy" decoding="async"></li>
+          <li><img src="../naoto-works/sticker/osushi-906932931.webp" alt="" loading="lazy" decoding="async"></li>
+          <li><img src="../naoto-works/sticker/osushi-906932926.webp" alt="" loading="lazy" decoding="async"></li>
+          <li><img src="../naoto-works/sticker/osushi-906932923.webp" alt="" loading="lazy" decoding="async"></li>
+          <li><img src="../naoto-works/sticker/osushi-906932927.webp" alt="" loading="lazy" decoding="async"></li>
+          <li><img src="../naoto-works/sticker/osushi-906932925.webp" alt="" loading="lazy" decoding="async"></li>
+      </ul>
+    </div>
   </div>
 </section>
 
@@ -664,6 +740,18 @@ document.querySelectorAll('.slide').forEach(function(el){io.observe(el);});
     if(Date.now()>until){ wrap.scrollLeft+=.3; loop(); }
     requestAnimationFrame(dr);
   })();
+})();
+</script>
+<script>
+/* ほかの作品：もっと見る */
+(function(){
+  var sec=document.getElementById('more'); if(!sec) return;
+  var btn=sec.querySelector('.more__btn'), lab=btn.querySelector('b');
+  btn.addEventListener('click',function(){
+    var open=sec.classList.toggle('is-open');
+    btn.setAttribute('aria-expanded', open?'true':'false');
+    lab.textContent = open ? '閉じる' : 'もっと見る';
+  });
 })();
 </script>
 </body></html>
